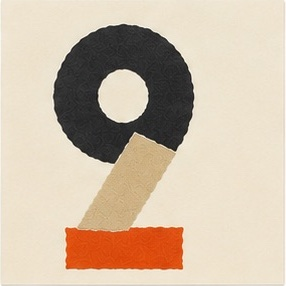
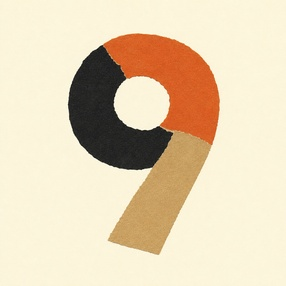
Replace puzzle tile 09 image

diff --git a/apps/puzzle/index.html b/apps/puzzle/index.html
@@ -18,6 +18,7 @@
       const grid = document.querySelector("#tile-grid");
       const shuffleButton = document.querySelector("#shuffle-button");
       const gridSize = 4;
+      const tileImageVersion = "20260516-tile-09";
       let tiles = [...Array(gridSize * gridSize - 1).keys()].map((index) => index + 1).concat(null);
 
       function render() {
@@ -28,7 +29,7 @@
             const content =
               tile === null
                 ? ""
-                : `<img src="tiles/tile-${String(tile).padStart(2, "0")}.jpeg" alt="" draggable="false" />`;
+                : `<img src="tiles/tile-${String(tile).padStart(2, "0")}.jpeg?v=${tileImageVersion}" alt="" draggable="false" />`;
             return `<button class="${className}" type="button" data-index="${index}" aria-label="${label}">${content}</button>`;
           })
           .join("");